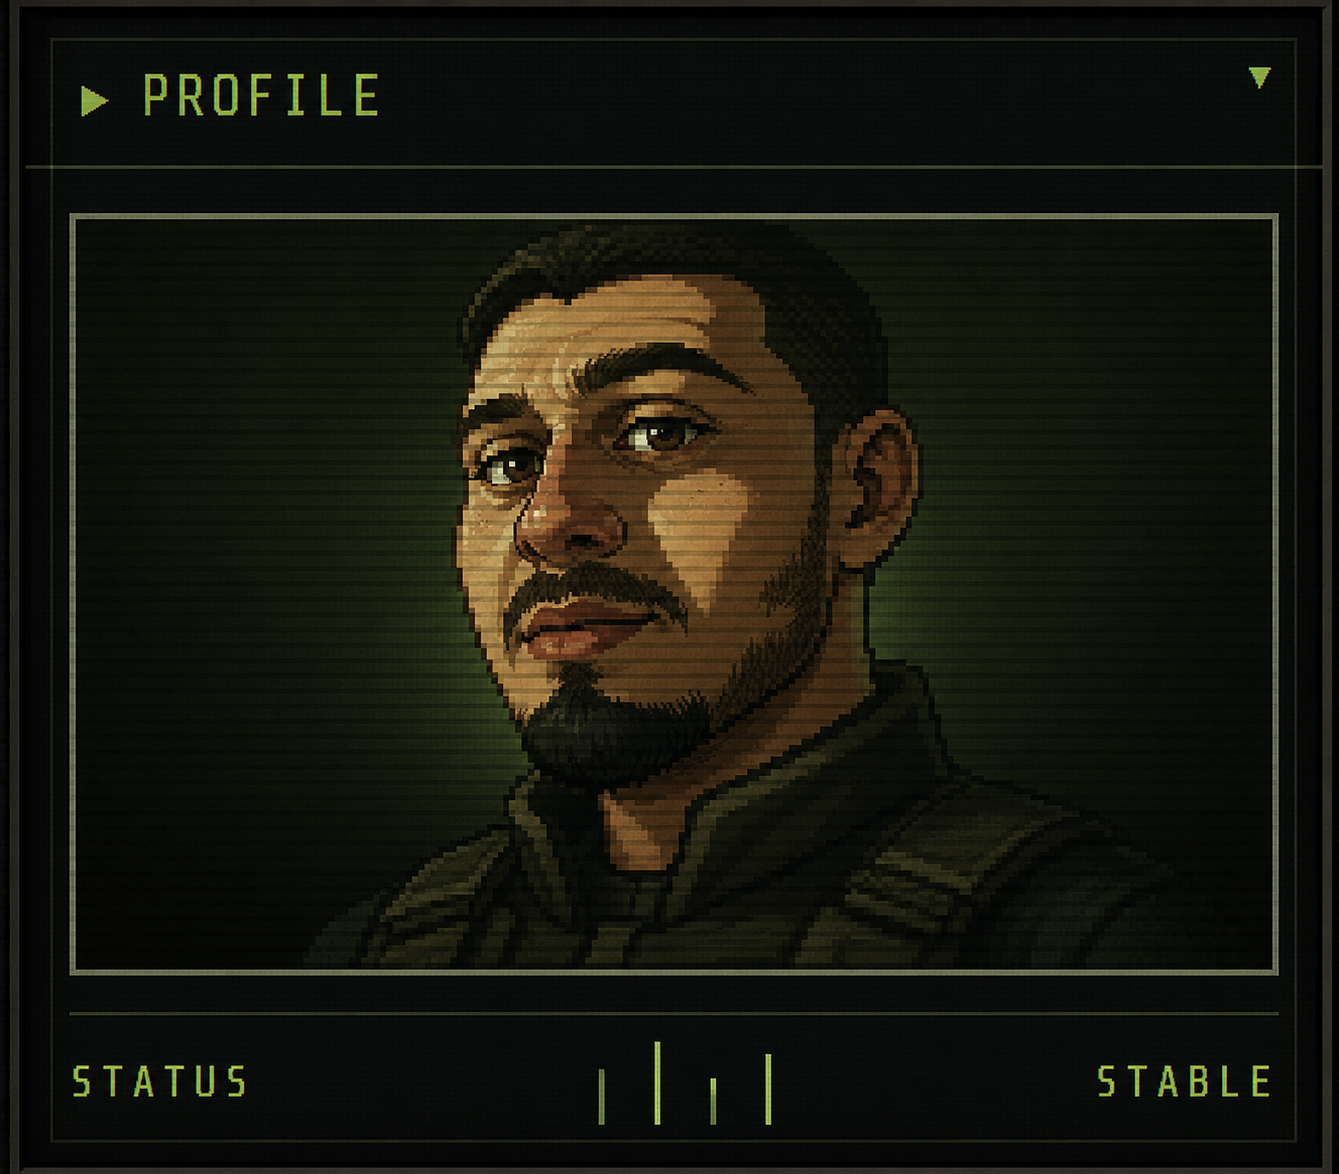
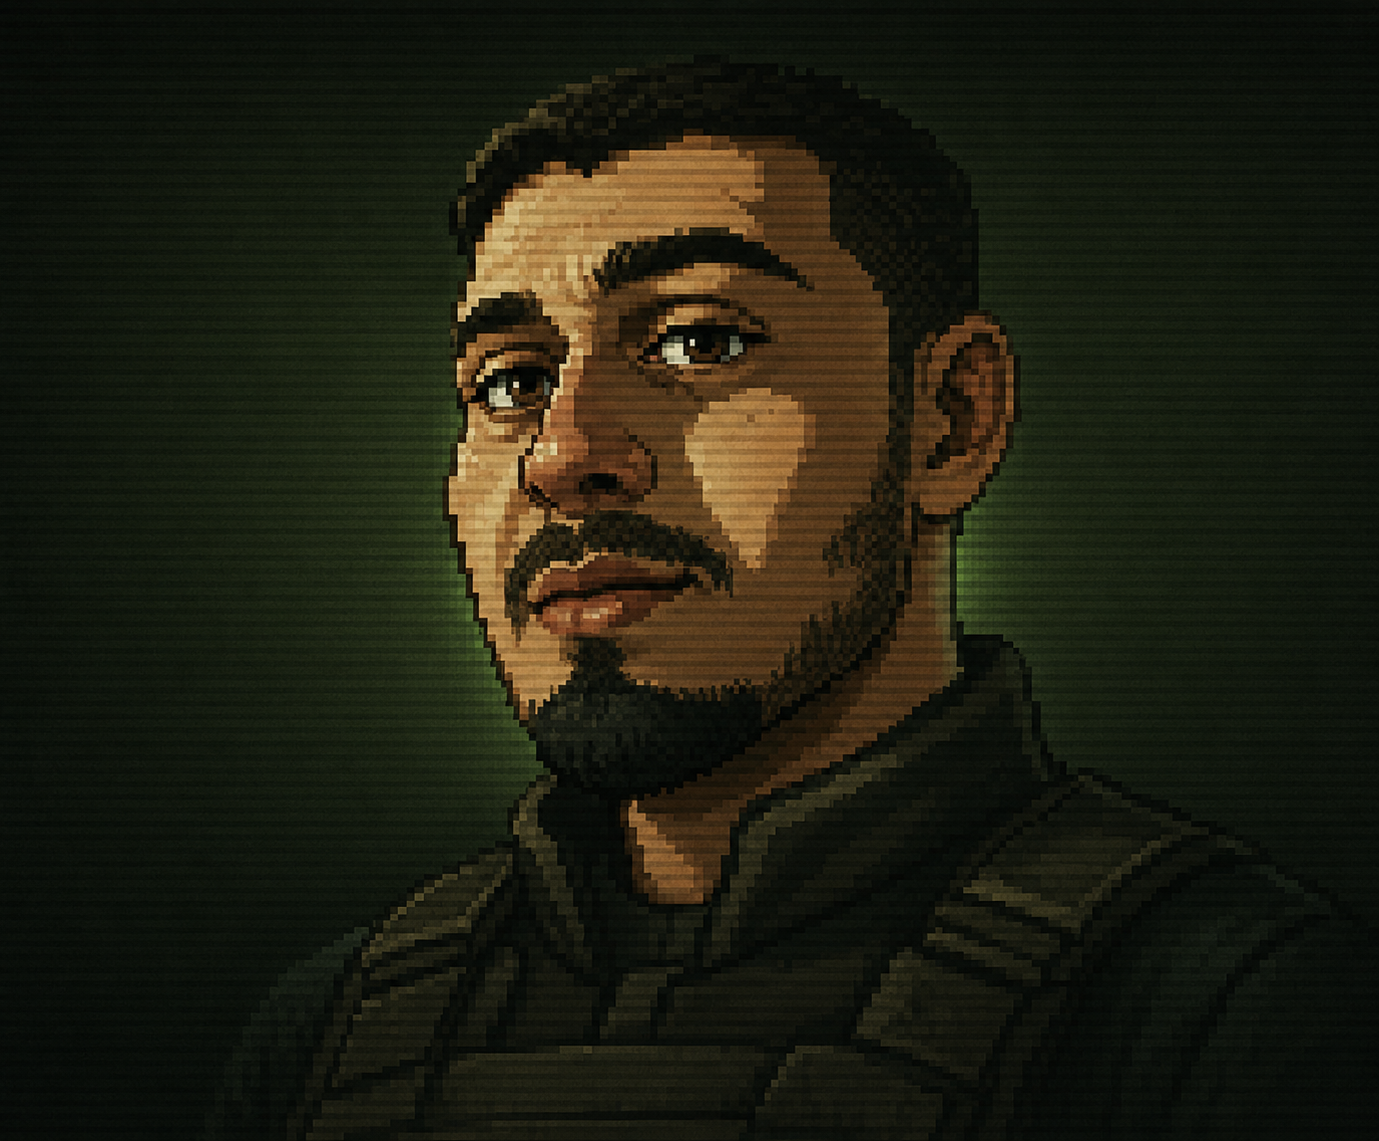
Feat. Adjustment on responsive image profile

diff --git a/src/components/ProfilePortrait.tsx b/src/components/ProfilePortrait.tsx
@@ -1,36 +1,50 @@
 export function ProfilePortrait() {
   return (
-    <div className="relative h-61.25 overflow-hidden border-2 border-[#6f735d] bg-[#0a0d0a]">
-      {/* brilho/base animado ao fundo */}
+    <div
+      className="
+        relative
+        aspect-[4/3]
+        w-full
+        min-w-0
+        overflow-hidden
+        border-2 border-[#6f735d]
+        bg-[#0a0d0a]
+
+        max-[1350px]:aspect-[5/4]
+        max-[1180px]:aspect-[4/3]
+        max-[560px]:aspect-square
+      "
+    >
       <div className="portrait-bg-pulse absolute inset-0 z-0" />
 
-      {/* névoa suave */}
       <div className="portrait-fog absolute inset-0 z-10" />
 
-      {/* imagem pixelada */}
       <img
         src="/images/gamerImage.png"
-        alt="Retrato de Cairon Henrique em pixel art"
-        className="absolute inset-0 z-20 h-full w-full object-cover object-center [image-rendering:pixelated]"
+        alt="Pixel art portrait of Cairon Henrique"
+        className="
+          absolute inset-0 z-20
+          h-full w-full
+          object-cover
+          object-[center_20%]
+          [image-rendering:pixelated]
+
+          max-[1350px]:object-[center_18%]
+          max-[560px]:object-[center_15%]
+        "
         draggable={false}
       />
 
-      {/* camada verde para integrar a foto ao terminal */}
       <div className="pointer-events-none absolute inset-0 z-30 bg-[linear-gradient(180deg,rgba(116,145,67,.06),rgba(4,12,6,.22))] mix-blend-color" />
 
-      {/* scanlines fixas */}
       <div className="pointer-events-none absolute inset-0 z-40 bg-[repeating-linear-gradient(to_bottom,rgba(0,0,0,0)_0px,rgba(0,0,0,0)_3px,rgba(0,0,0,.22)_4px,rgba(0,0,0,.32)_5px)] opacity-80" />
 
-      {/* feixe de varredura */}
       <div className="portrait-scan pointer-events-none absolute inset-x-0 z-50 h-16" />
 
-      {/* vinheta */}
       <div className="pointer-events-none absolute inset-0 z-60 shadow-[inset_0_0_80px_rgba(0,0,0,.85)]" />
 
-      {/* ruído visual leve */}
       <div className="portrait-noise pointer-events-none absolute inset-0 z-70 opacity-[0.07]" />
 
-      {/* brilho da borda interna */}
       <div className="pointer-events-none absolute inset-1 z-80 border border-[rgba(170,190,110,.12)]" />
     </div>
   );
